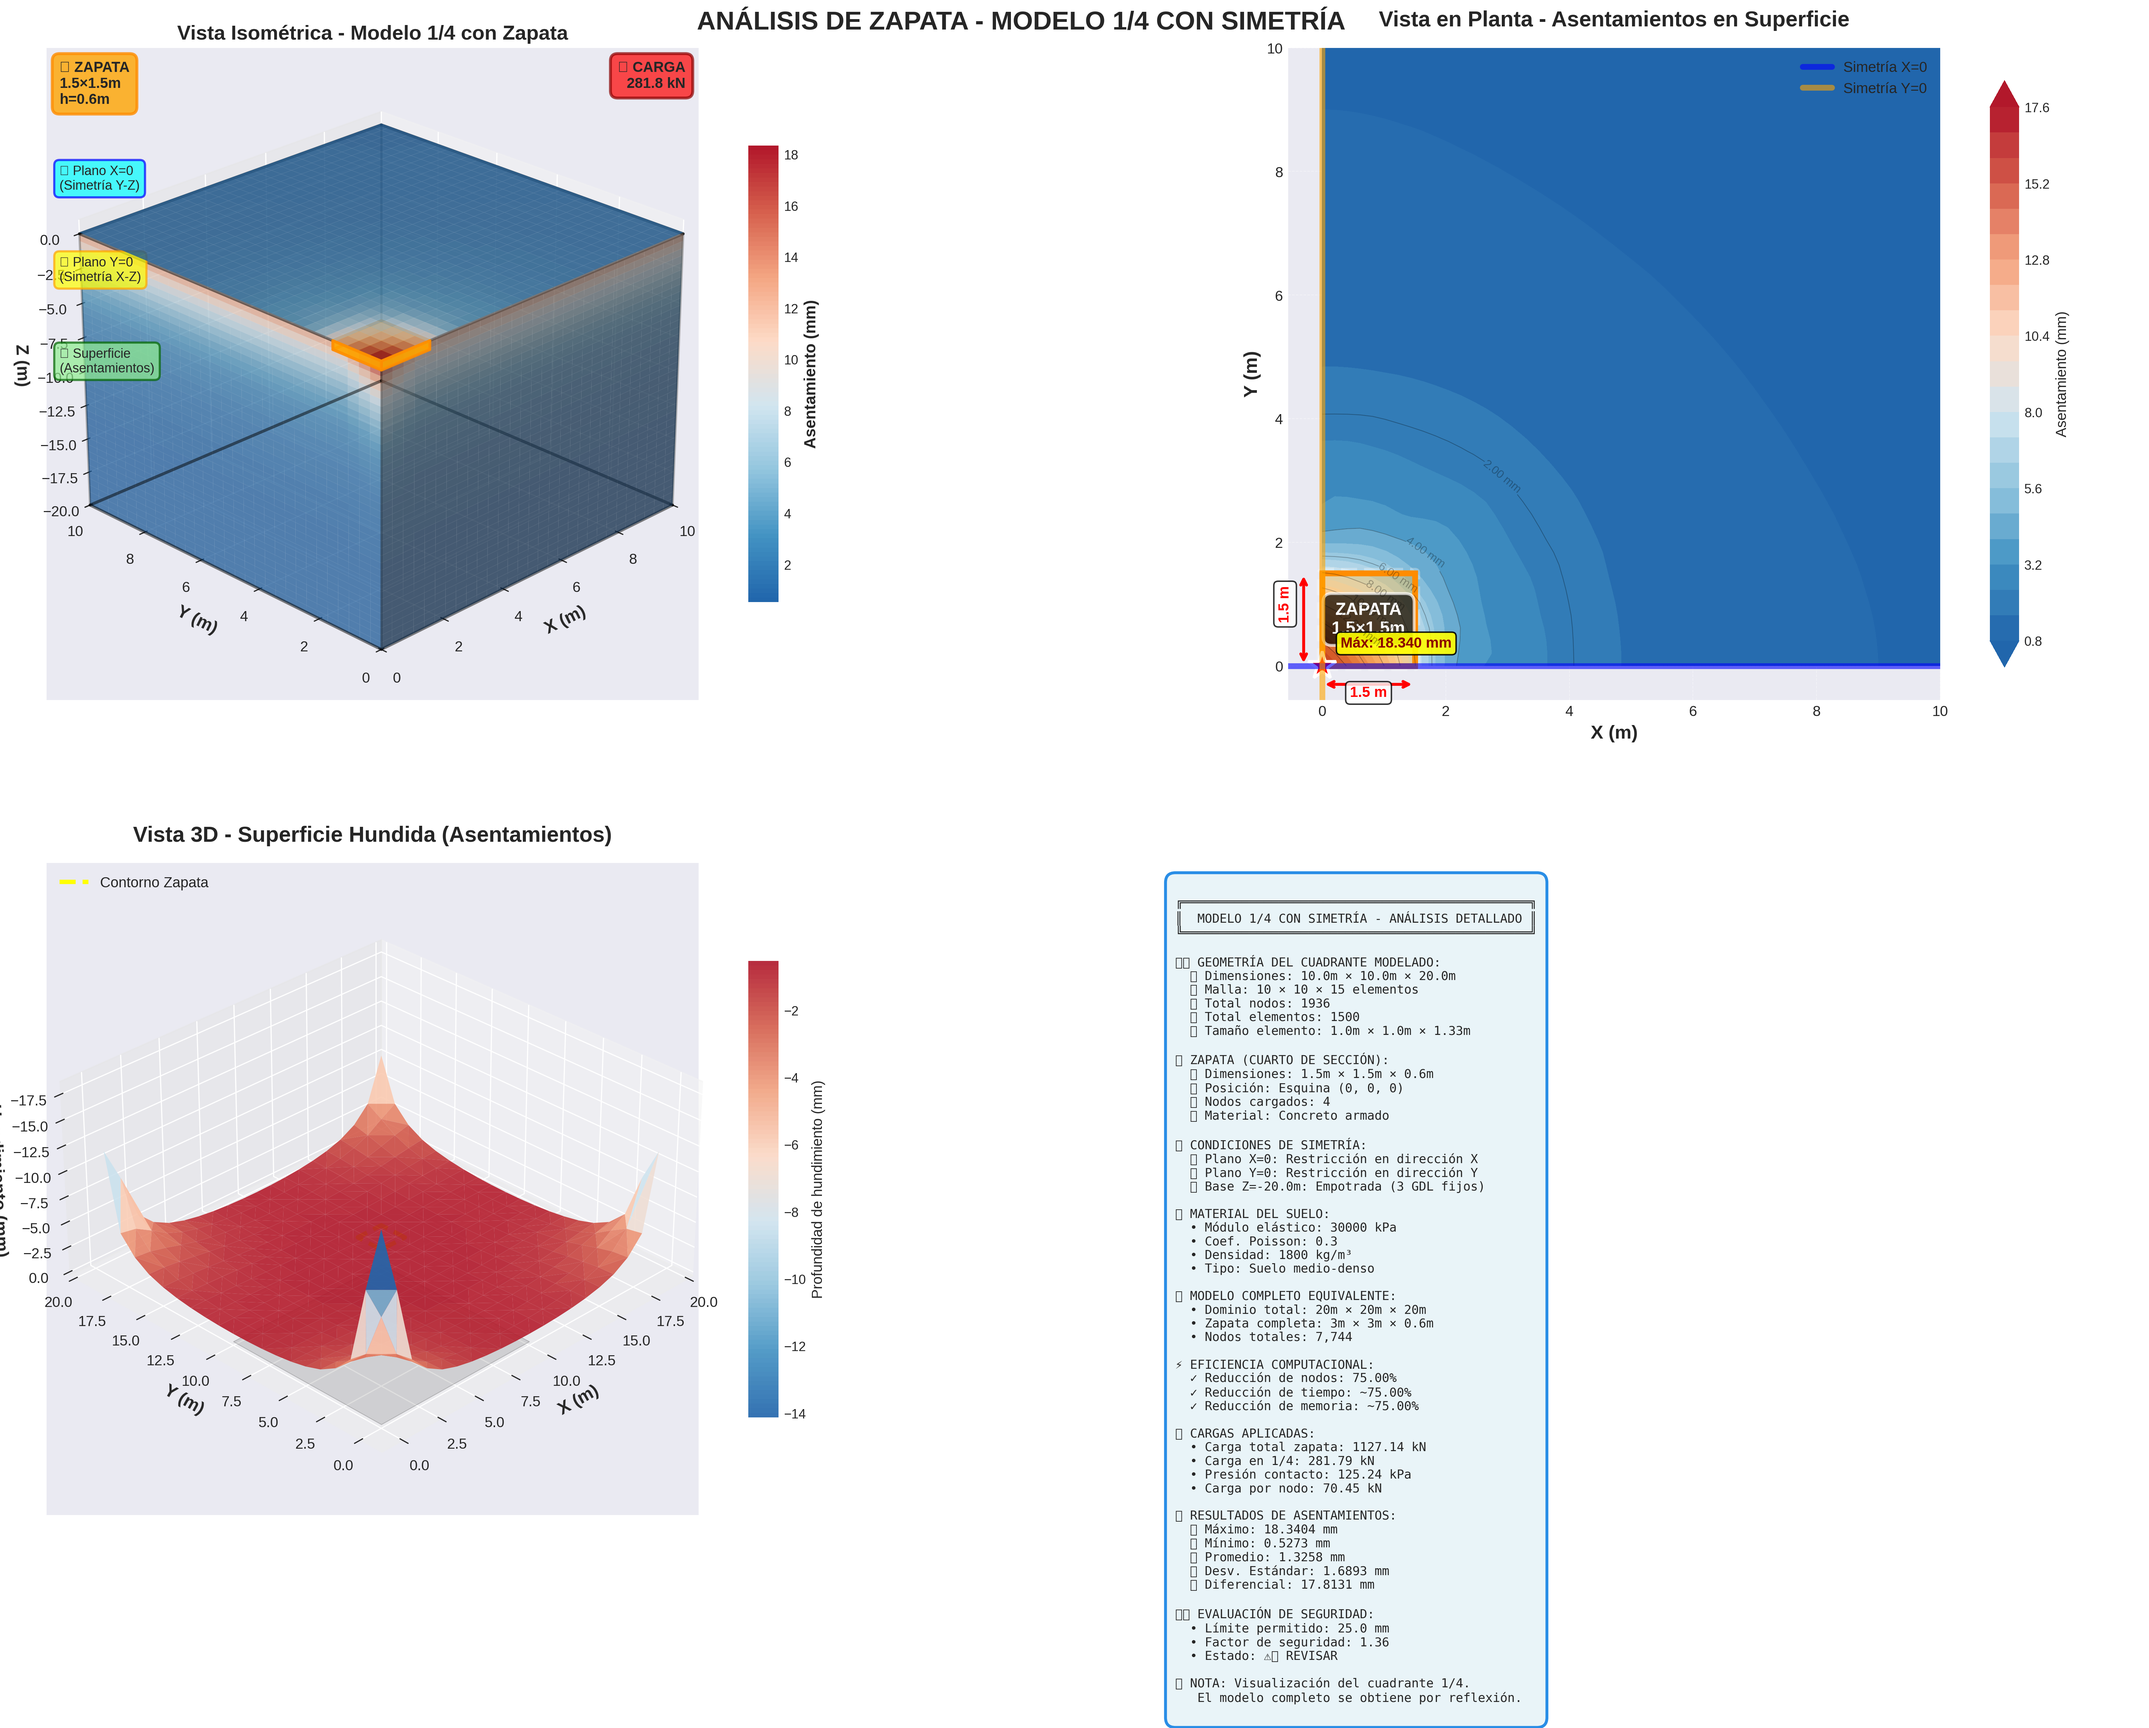
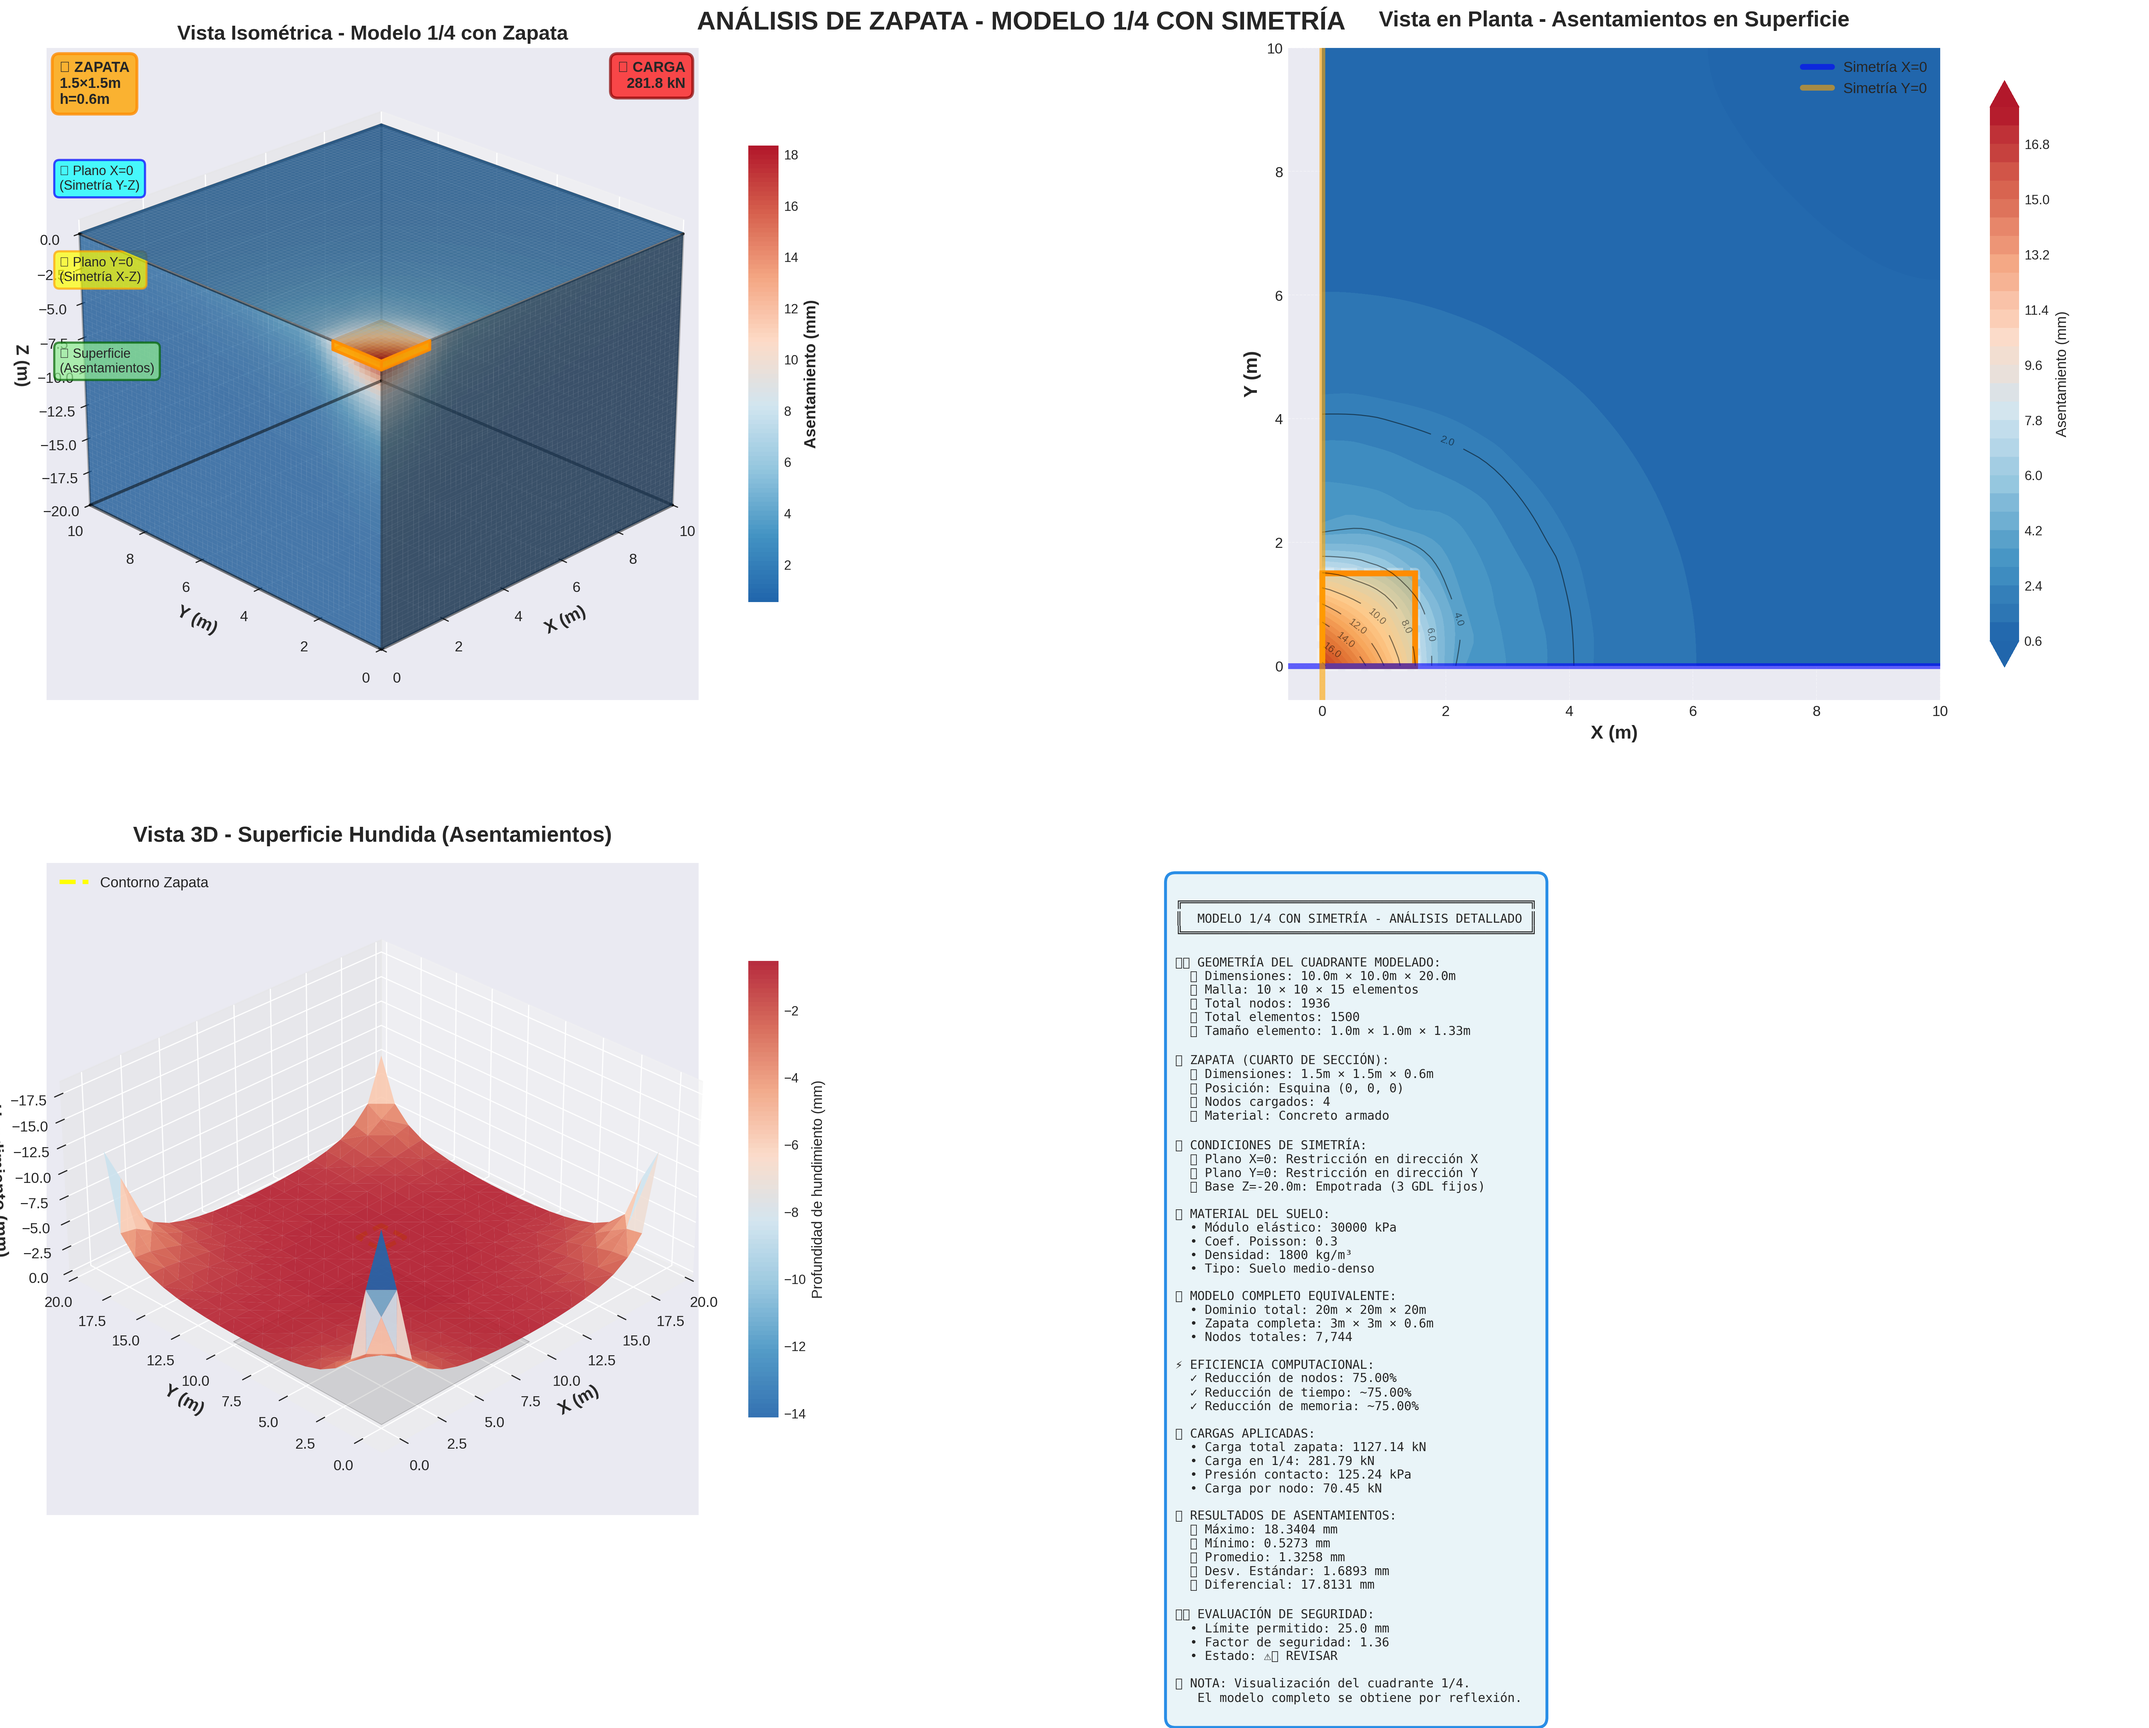
Mejorar contornos isométricos con interpolación de alta resolución
MEJORAS EN INTERPOLACIÓN:
- Aumentar resolución de grid de 30 a 80 puntos en todos los planos
- Implementar interpolación cúbica en planos X=0 y Y=0
- Eliminar duplicados y promediar valores antes de interpolar
- Rellenar valores NaN con interpolación lineal de respaldo

MEJORAS EN PLANOS VERTICALES:
- Plano X=0: resolución 60x60 con interpolación cúbica suave
- Plano Y=0: resolución 60x60 con interpolación cúbica suave
- Aumentar alpha a 0.8 para mejor visibilidad
- Aplicar decaimiento exponencial más preciso con profundidad

MEJORAS EN VISTA EN PLANTA:
- Aumentar niveles de contorno relleno de 25 a 30
- Aumentar resolución de grid de 50 a 80 puntos
- Reducir líneas de contorno de 15 a 8 niveles clave
- Etiquetas discretas solo en líneas (fontsize 7, spacing 15)
- ELIMINAR todas las etiquetas que tapan visualización:
  * Texto "ZAPATA" en el centro
  * Dimensiones con flechas
  * Marcador y etiqueta de asentamiento máximo

RESULTADO:
- Contornos más suaves y profesionales en todos los planos
- Vista en planta limpia con solo etiquetas en líneas
- Interpolación consistente entre vista isométrica y planta
- Tamaño aumentado a 3.4 MB (mayor detalle)

Changed region(s): [[0.0312, 0.0935, 0.3432, 0.2493], [0.5928, 0.3428, 0.6864, 0.4051]]

diff --git a/visualize_quarter_improved.py b/visualize_quarter_improved.py
@@ -119,13 +119,19 @@ fig.suptitle('ANÁLISIS DE ZAPATA - MODELO 1/4 CON SIMETRÍA',
 # ========================================
 ax1 = fig.add_subplot(2, 2, 1, projection='3d')
 
-# Crear grid para interpolación
-xi_iso = np.linspace(0, Lx_quarter, 30)
-yi_iso = np.linspace(0, Ly_quarter, 30)
+# Crear grid de alta resolución para interpolación suave
+xi_iso = np.linspace(0, Lx_quarter, 80)  # Aumentado de 30 a 80 para mayor suavidad
+yi_iso = np.linspace(0, Ly_quarter, 80)
 Xi_iso, Yi_iso = np.meshgrid(xi_iso, yi_iso)
 
-# Interpolar asentamientos
+# Interpolar asentamientos usando todos los puntos disponibles
 Zi_iso = griddata((x_surf, y_surf), z_surf, (Xi_iso, Yi_iso), method='cubic')
+
+# Rellenar NaN si existen usando interpolación lineal
+if np.any(np.isnan(Zi_iso)):
+    mask = np.isnan(Zi_iso)
+    Zi_iso_linear = griddata((x_surf, y_surf), z_surf, (Xi_iso, Yi_iso), method='linear')
+    Zi_iso[mask] = Zi_iso_linear[mask]
 
 # Dibujar contorno del dominio
 domain_corners = [
@@ -164,17 +170,39 @@ def settlement_decay(surface_settlement, depth):
     decay_factor = np.exp(-depth / (B_quarter * 2))
     return surface_settlement * decay_factor
 
-# PLANO X=0
-y_plane_x0 = np.linspace(0, Ly_quarter, 30)
-z_plane_x0 = np.linspace(0, -Lz_soil, 40)
+# PLANO X=0 con alta resolución
+y_plane_x0 = np.linspace(0, Ly_quarter, 60)  # Aumentado para mejor detalle
+z_plane_x0 = np.linspace(0, -Lz_soil, 60)    # Aumentado para mejor detalle
 Y_x0, Z_x0 = np.meshgrid(y_plane_x0, z_plane_x0)
 
-# Interpolar asentamientos en superficie para Y en x=0
+# Interpolar asentamientos en superficie para Y en x=0 usando más puntos
 idx_x0 = np.abs(x_surf - 0) < dx/2
-if np.sum(idx_x0) > 0:
+if np.sum(idx_x0) > 2:  # Necesitamos al menos 3 puntos
     y_surf_x0 = y_surf[idx_x0]
     settlement_surf_x0 = z_surf[idx_x0]
-    settlement_interp_x0 = np.interp(y_plane_x0, y_surf_x0, settlement_surf_x0)
+
+    # Ordenar para interpolación y eliminar duplicados
+    sort_idx = np.argsort(y_surf_x0)
+    y_surf_x0_sorted = y_surf_x0[sort_idx]
+    settlement_surf_x0_sorted = settlement_surf_x0[sort_idx]
+
+    # Eliminar duplicados promediando valores
+    unique_y, indices = np.unique(y_surf_x0_sorted, return_inverse=True)
+    unique_settlement = np.zeros_like(unique_y)
+    for i in range(len(unique_y)):
+        unique_settlement[i] = np.mean(settlement_surf_x0_sorted[indices == i])
+
+    # Interpolación cúbica para superficie más suave
+    from scipy.interpolate import interp1d
+    if len(unique_y) >= 4:
+        interp_func = interp1d(unique_y, unique_settlement,
+                               kind='cubic', fill_value='extrapolate')
+    else:
+        interp_func = interp1d(unique_y, unique_settlement,
+                               kind='linear', fill_value='extrapolate')
+
+    settlement_interp_x0 = interp_func(y_plane_x0)
+    settlement_interp_x0 = np.clip(settlement_interp_x0, 0, None)  # No negativos
 
     Settlement_x0 = np.zeros_like(Y_x0)
     for i in range(len(y_plane_x0)):
@@ -185,19 +213,40 @@ if np.sum(idx_x0) > 0:
     X_x0 = np.zeros_like(Y_x0)
     colors_x0 = cmap_custom(Settlement_x0 / np.nanmax(Zi_iso))
     ax1.plot_surface(X_x0, Y_x0, Z_x0, facecolors=colors_x0,
-                     alpha=0.75, rstride=1, cstride=1,
+                     alpha=0.8, rstride=1, cstride=1,
                      linewidth=0, antialiased=True, shade=True, edgecolor='none')
 
-# PLANO Y=0
-x_plane_y0 = np.linspace(0, Lx_quarter, 30)
-z_plane_y0 = np.linspace(0, -Lz_soil, 40)
+# PLANO Y=0 con alta resolución
+x_plane_y0 = np.linspace(0, Lx_quarter, 60)  # Aumentado para mejor detalle
+z_plane_y0 = np.linspace(0, -Lz_soil, 60)    # Aumentado para mejor detalle
 X_y0, Z_y0 = np.meshgrid(x_plane_y0, z_plane_y0)
 
 idx_y0 = np.abs(y_surf - 0) < dy/2
-if np.sum(idx_y0) > 0:
+if np.sum(idx_y0) > 2:  # Necesitamos al menos 3 puntos
     x_surf_y0 = x_surf[idx_y0]
     settlement_surf_y0 = z_surf[idx_y0]
-    settlement_interp_y0 = np.interp(x_plane_y0, x_surf_y0, settlement_surf_y0)
+
+    # Ordenar para interpolación y eliminar duplicados
+    sort_idx = np.argsort(x_surf_y0)
+    x_surf_y0_sorted = x_surf_y0[sort_idx]
+    settlement_surf_y0_sorted = settlement_surf_y0[sort_idx]
+
+    # Eliminar duplicados promediando valores
+    unique_x, indices = np.unique(x_surf_y0_sorted, return_inverse=True)
+    unique_settlement = np.zeros_like(unique_x)
+    for i in range(len(unique_x)):
+        unique_settlement[i] = np.mean(settlement_surf_y0_sorted[indices == i])
+
+    # Interpolación cúbica para superficie más suave
+    if len(unique_x) >= 4:
+        interp_func = interp1d(unique_x, unique_settlement,
+                               kind='cubic', fill_value='extrapolate')
+    else:
+        interp_func = interp1d(unique_x, unique_settlement,
+                               kind='linear', fill_value='extrapolate')
+
+    settlement_interp_y0 = interp_func(x_plane_y0)
+    settlement_interp_y0 = np.clip(settlement_interp_y0, 0, None)  # No negativos
 
     Settlement_y0 = np.zeros_like(X_y0)
     for i in range(len(x_plane_y0)):
@@ -208,7 +257,7 @@ if np.sum(idx_y0) > 0:
     Y_y0 = np.zeros_like(X_y0)
     colors_y0 = cmap_custom(Settlement_y0 / np.nanmax(Zi_iso))
     ax1.plot_surface(X_y0, Y_y0, Z_y0, facecolors=colors_y0,
-                     alpha=0.75, rstride=1, cstride=1,
+                     alpha=0.8, rstride=1, cstride=1,
                      linewidth=0, antialiased=True, shade=True, edgecolor='none')
 
 # ZAPATA
@@ -278,15 +327,25 @@ ax1.text2D(0.98, 0.98, f'⬇ CARGA\n{P_total_quarter:.1f} kN', transform=ax1.tra
 # ========================================
 ax2 = fig.add_subplot(2, 2, 2)
 
-# Contorno de asentamientos
-xi = np.linspace(0, Lx_quarter, 50)
-yi = np.linspace(0, Ly_quarter, 50)
+# Contorno de asentamientos con alta resolución
+xi = np.linspace(0, Lx_quarter, 80)  # Aumentado para coincidir con isométrico
+yi = np.linspace(0, Ly_quarter, 80)
 Xi, Yi = np.meshgrid(xi, yi)
 Zi = griddata((x_surf, y_surf), z_surf, (Xi, Yi), method='cubic')
 
-contour = ax2.contourf(Xi, Yi, Zi, levels=25, cmap=cmap_custom, extend='both')
-contour_lines = ax2.contour(Xi, Yi, Zi, levels=10, colors='black', linewidths=0.5, alpha=0.3)
-ax2.clabel(contour_lines, inline=True, fontsize=8, fmt='%.2f mm')
+# Rellenar NaN si existen
+if np.any(np.isnan(Zi)):
+    mask = np.isnan(Zi)
+    Zi_linear = griddata((x_surf, y_surf), z_surf, (Xi, Yi), method='linear')
+    Zi[mask] = Zi_linear[mask]
+
+# Contornos rellenos con más niveles para suavidad
+contour = ax2.contourf(Xi, Yi, Zi, levels=30, cmap=cmap_custom, extend='both')
+
+# Líneas de contorno con etiquetas discretas solo en niveles clave
+contour_lines = ax2.contour(Xi, Yi, Zi, levels=8, colors='black', linewidths=0.7, alpha=0.5)
+# Etiquetas de asentamiento solo en las líneas de contorno (discretas)
+ax2.clabel(contour_lines, inline=True, fontsize=7, fmt='%.1f', inline_spacing=15)
 
 cbar2 = plt.colorbar(contour, ax=ax2, label='Asentamiento (mm)', shrink=0.9)
 cbar2.ax.tick_params(labelsize=9)
@@ -313,31 +372,8 @@ ax2.set_aspect('equal')
 ax2.legend(loc='upper right', fontsize=10, framealpha=0.9)
 ax2.grid(True, alpha=0.4, linestyle='--', linewidth=0.5)
 
-# Anotaciones
-ax2.text(B_quarter/2, L_quarter/2, 'ZAPATA\n1.5×1.5m', ha='center', va='center',
-         color='white', fontweight='bold', fontsize=12,
-         bbox=dict(boxstyle='round,pad=0.5', facecolor='black', alpha=0.7, edgecolor='white', linewidth=2))
-
-# Dimensiones
-ax2.annotate('', xy=(B_quarter, -0.3), xytext=(0, -0.3),
-            arrowprops=dict(arrowstyle='<->', color='red', lw=2))
-ax2.text(B_quarter/2, -0.5, f'{B_quarter} m', ha='center', fontsize=10,
-         fontweight='bold', color='red',
-         bbox=dict(boxstyle='round', facecolor='white', alpha=0.8))
-
-ax2.annotate('', xy=(-0.3, L_quarter), xytext=(-0.3, 0),
-            arrowprops=dict(arrowstyle='<->', color='red', lw=2))
-ax2.text(-0.6, L_quarter/2, f'{L_quarter} m', ha='center', fontsize=10,
-         fontweight='bold', color='red', rotation=90,
-         bbox=dict(boxstyle='round', facecolor='white', alpha=0.8))
-
-# Máximo asentamiento
-max_idx = np.nanargmax(Zi)
-max_i, max_j = np.unravel_index(max_idx, Zi.shape)
-ax2.plot(Xi[max_i, max_j], Yi[max_i, max_j], 'r*', markersize=20, markeredgecolor='white', markeredgewidth=2)
-ax2.text(Xi[max_i, max_j]+0.3, Yi[max_i, max_j]+0.3, f'Máx: {np.nanmax(Zi):.3f} mm',
-         fontsize=10, fontweight='bold', color='darkred',
-         bbox=dict(boxstyle='round', facecolor='yellow', alpha=0.9))
+# ELIMINADAS todas las etiquetas que tapan la visualización
+# Solo se mantienen las etiquetas de asentamiento en las líneas de contorno (clabel arriba)
 
 # ========================================
 # 3. VISTA 3D - SUPERFICIE HUNDIDA
